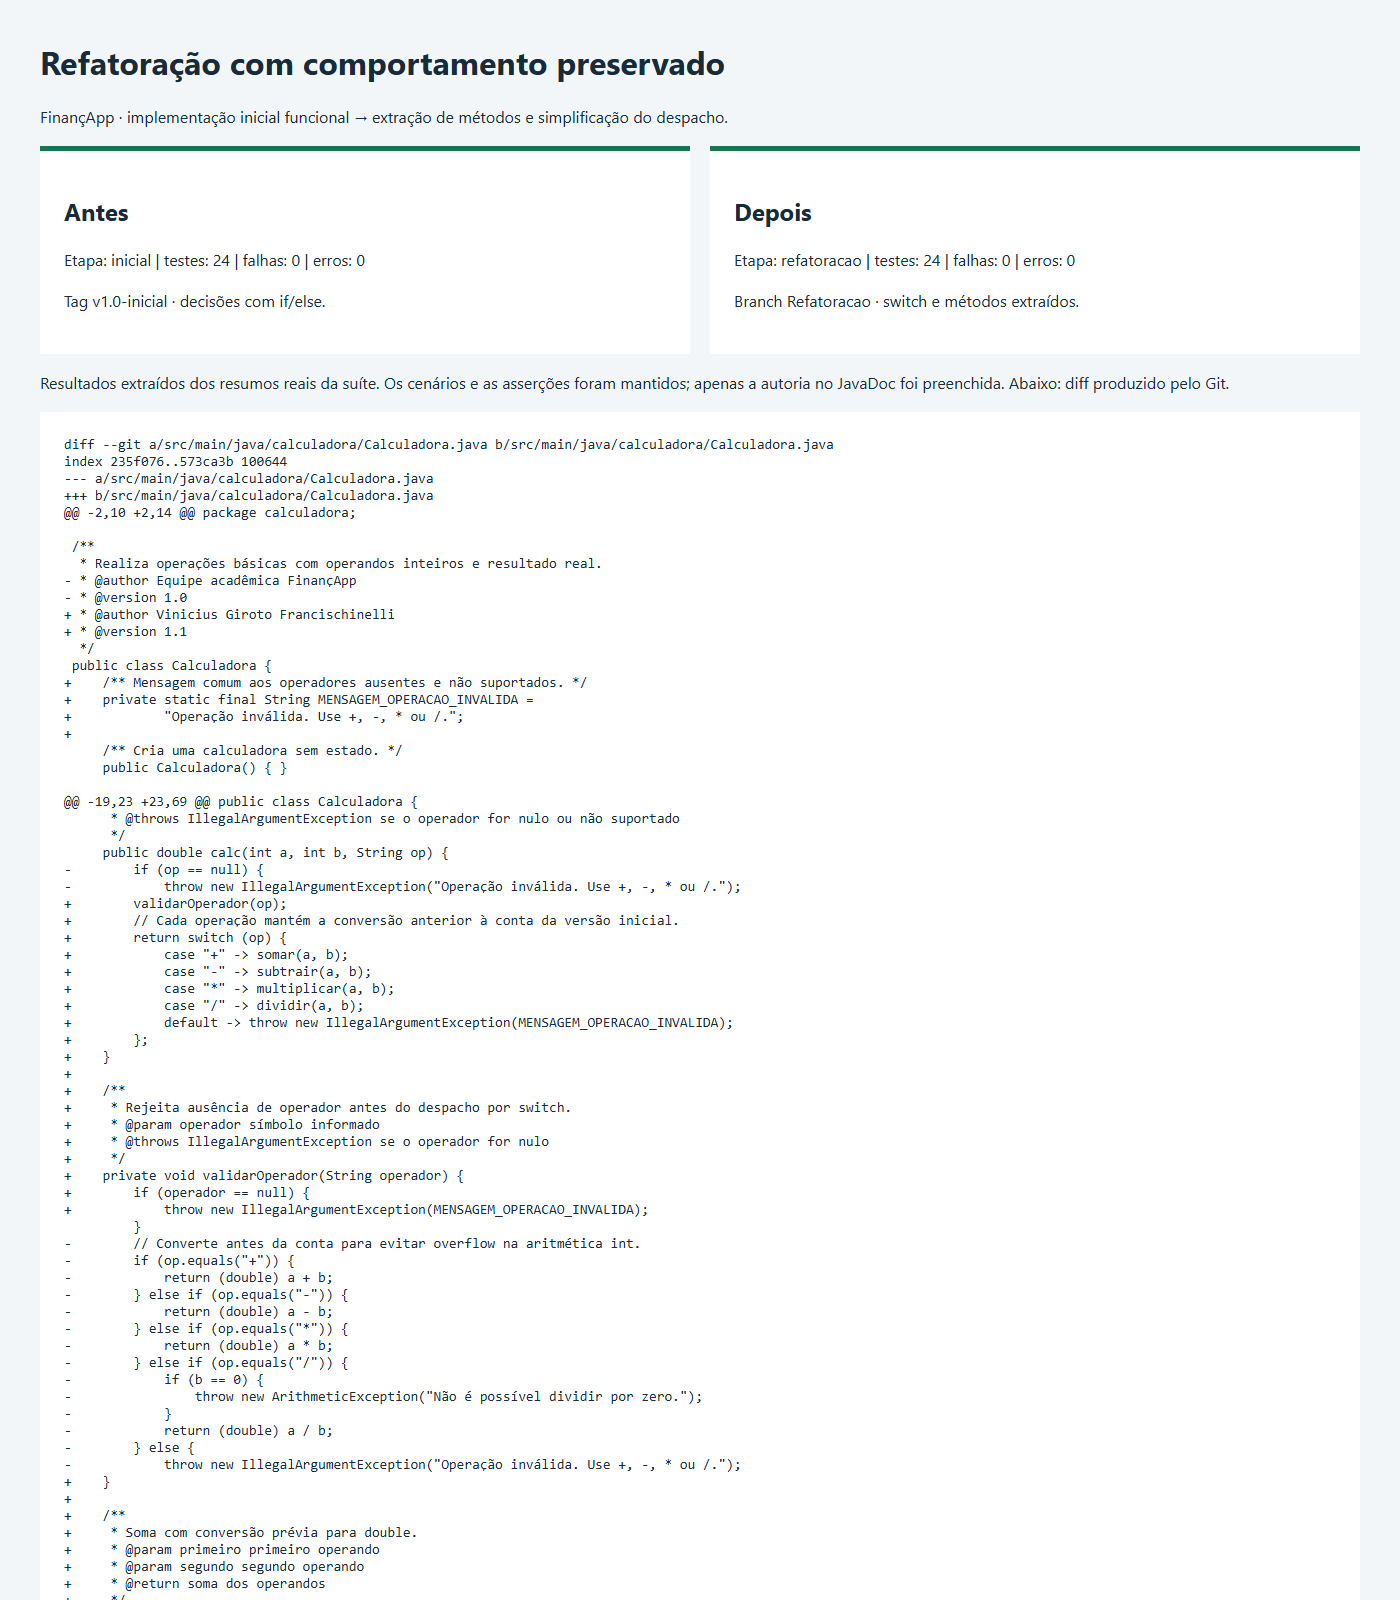
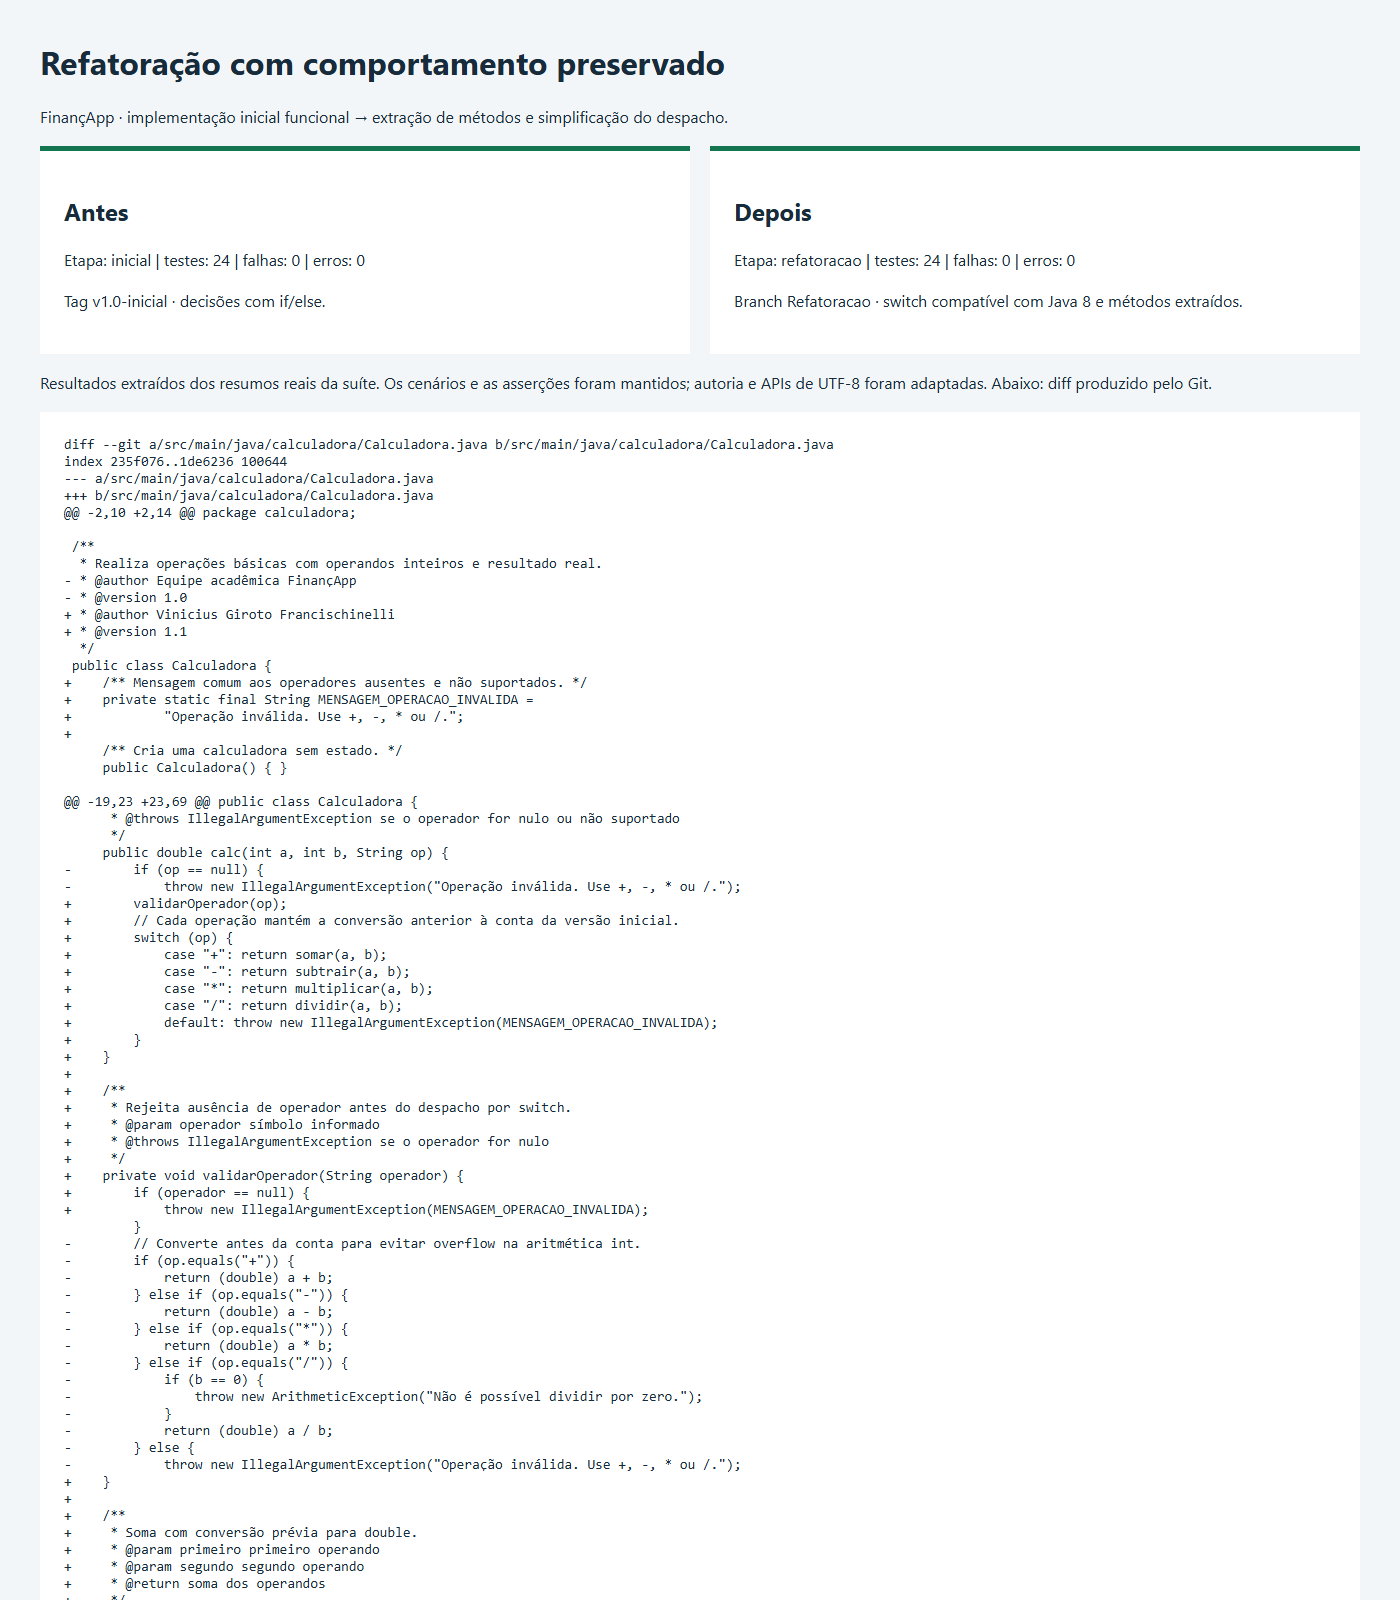
docs: adicionar capturas reais do terminal em Java 8 e 21

diff --git a/evidencias/refatoracao/comparacao.html b/evidencias/refatoracao/comparacao.html
@@ -3,9 +3,9 @@
 <h1>Refatoração com comportamento preservado</h1><p>FinançApp · implementação inicial funcional → extração de métodos e simplificação do despacho.</p>
 <section><article><h2>Antes</h2><p>Etapa: inicial | testes: 24 | falhas: 0 | erros: 0
 </p><p>Tag v1.0-inicial · decisões com if/else.</p></article><article><h2>Depois</h2><p>Etapa: refatoracao | testes: 24 | falhas: 0 | erros: 0
-</p><p>Branch Refatoracao · switch e métodos extraídos.</p></article></section>
-<p>Resultados extraídos dos resumos reais da suíte. Os cenários e as asserções foram mantidos; apenas a autoria no JavaDoc foi preenchida. Abaixo: diff produzido pelo Git.</p><pre>diff --git a/src/main/java/calculadora/Calculadora.java b/src/main/java/calculadora/Calculadora.java
-index 235f076..573ca3b 100644
+</p><p>Branch Refatoracao · switch compatível com Java 8 e métodos extraídos.</p></article></section>
+<p>Resultados extraídos dos resumos reais da suíte. Os cenários e as asserções foram mantidos; autoria e APIs de UTF-8 foram adaptadas. Abaixo: diff produzido pelo Git.</p><pre>diff --git a/src/main/java/calculadora/Calculadora.java b/src/main/java/calculadora/Calculadora.java
+index 235f076..1de6236 100644
 --- a/src/main/java/calculadora/Calculadora.java
 +++ b/src/main/java/calculadora/Calculadora.java
 @@ -2,10 +2,14 @@ package calculadora;
@@ -33,13 +33,13 @@ index 235f076..573ca3b 100644
 -            throw new IllegalArgumentException(&quot;Opera&#231;&#227;o inv&#225;lida. Use +, -, * ou /.&quot;);
 +        validarOperador(op);
 +        // Cada opera&#231;&#227;o mant&#233;m a convers&#227;o anterior &#224; conta da vers&#227;o inicial.
-+        return switch (op) {
-+            case &quot;+&quot; -&gt; somar(a, b);
-+            case &quot;-&quot; -&gt; subtrair(a, b);
-+            case &quot;*&quot; -&gt; multiplicar(a, b);
-+            case &quot;/&quot; -&gt; dividir(a, b);
-+            default -&gt; throw new IllegalArgumentException(MENSAGEM_OPERACAO_INVALIDA);
-+        };
++        switch (op) {
++            case &quot;+&quot;: return somar(a, b);
++            case &quot;-&quot;: return subtrair(a, b);
++            case &quot;*&quot;: return multiplicar(a, b);
++            case &quot;/&quot;: return dividir(a, b);
++            default: throw new IllegalArgumentException(MENSAGEM_OPERACAO_INVALIDA);
++        }
 +    }
 +
 +    /**
@@ -112,5 +112,6 @@ index 235f076..573ca3b 100644
      }
  }
 </pre></html>
+
 
 
